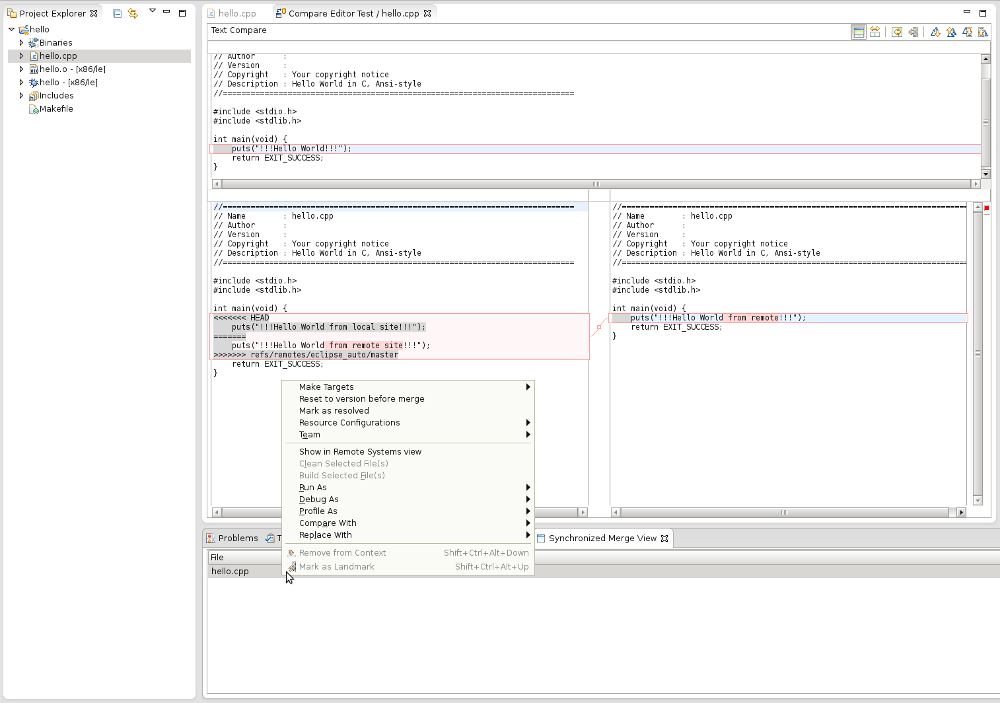
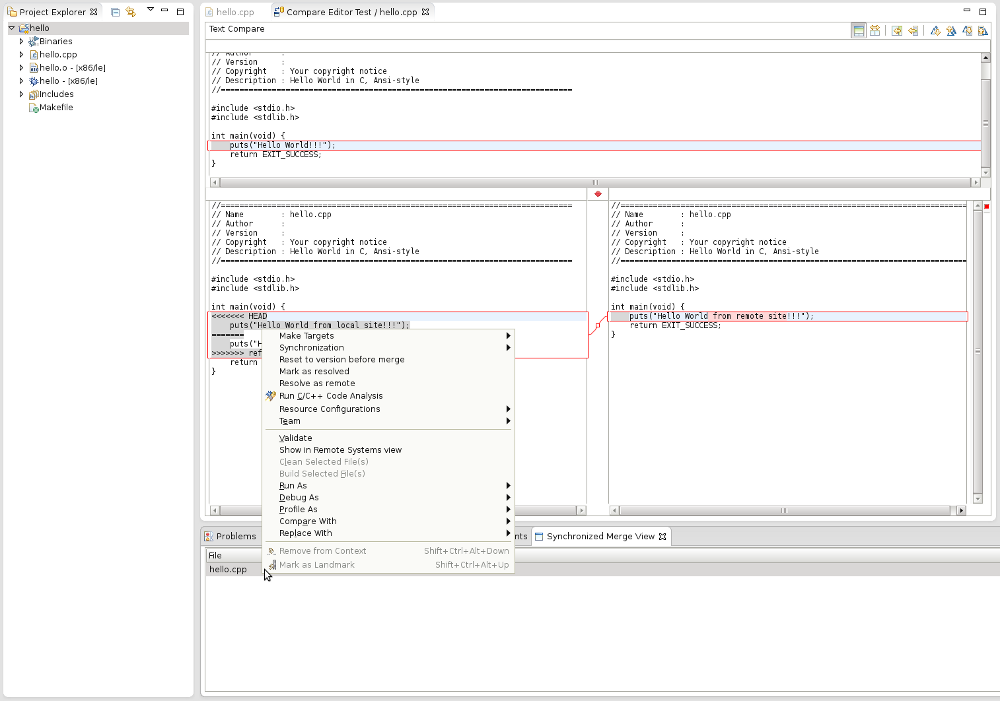
Fix bug 383233 - Give option to select the remote version to resolve a merge conflict

Changed region(s): [[0.0, 0.0, 0.992, 0.9886], [0.434, 0.689, 1.0, 0.8388], [0.558, 0.5093, 0.589, 0.5392]]

diff --git a/core/org.eclipse.ptp.doc.user/html/sync.html b/core/org.eclipse.ptp.doc.user/html/sync.html
@@ -136,7 +136,7 @@ You can open the merge conflict view from this dialog or from <b>Window > Show V
 
 In the compare editor, editing the left pane edits the local version of the file. The compare editor is only for convenience. You can also edit the file from the normal Eclipse text editor. When finished editing, be sure to save the file and then select "Mark as resolved" from the context menu. This version will be copied to the remote site on the next sync. Do the same for each conflicted file. Sync'ing is blocked until all conflicts have been resolved. Instead, the merge-conflict dialog will appear. (Click the checkbox in the merge-conflict dialog to disable it until the merge is resolved.) It is a good idea to sync manually after resolving the merge to push the edits to the remote system.
 <p>
-After a merge conflict, the local file has markers and annotation added to show the differing content on the local and remote sites. This is useful for editing the file by itself, but not so much for using the compare editor. Select "Reset to version before merge" in the context menu to revert the local file to its prior version. Now the compare editor will show clearly the differences between local and remote.
+After a merge conflict, the local file has markers and annotation added to show the differing content on the local and remote sites. This is useful for editing the file by itself, but not so much for using the compare editor. Select "Reset to version before merge" in the context menu to revert the local file to its prior version. Now the compare editor will show clearly the differences between local and remote. Sometimes you may simply want the remote version of the file. Selecting "Resolve as remote" makes the local file identical to the remote version and then marks it as resolved.
 
 <h2 id="includes">Remote Include Paths</h2>
 <p>At the time of the PTP 5.0 release (June 2011),

diff --git a/rdt/org.eclipse.ptp.rdt.sync.ui/src/org/eclipse/ptp/rdt/sync/ui/SyncMenuOperation.java b/rdt/org.eclipse.ptp.rdt.sync.ui/src/org/eclipse/ptp/rdt/sync/ui/SyncMenuOperation.java
@@ -51,6 +51,7 @@ public class SyncMenuOperation extends AbstractHandler implements IElementUpdate
 	private static final String syncExcludeCommand = "sync_exclude"; //$NON-NLS-1$
 	private static final String syncIncludeCommand = "sync_include"; //$NON-NLS-1$
 	private static final String checkoutCommand = "checkout"; //$NON-NLS-1$
+	private static final String resolveAsRemoteCommand = "checkout_remote_copy"; //$NON-NLS-1$
 	private static final String resolveMergeCommand = "resolve"; //$NON-NLS-1$
 	private static final ISyncExceptionHandler syncExceptionHandler = new CommonSyncExceptionHandler(false, true);
 
@@ -115,7 +116,8 @@ public class SyncMenuOperation extends AbstractHandler implements IElementUpdate
 				SyncFileFilterPage.open(project, null);
 			} else if (command.equals(syncDefaultFileList)) {
 				SyncFileFilterPage.open(null, null);
-			} else if (command.equals(checkoutCommand) || command.equals(resolveMergeCommand)) {
+			} else if (command.equals(checkoutCommand) || command.equals(resolveMergeCommand) ||
+					(command.equals(resolveAsRemoteCommand))) {
 				BuildConfigurationManager bcm = BuildConfigurationManager.getInstance();
 				BuildScenario buildScenario = bcm.getBuildScenarioForProject(project);
 				IStructuredSelection sel = this.getSelectedElements();
@@ -134,7 +136,11 @@ public class SyncMenuOperation extends AbstractHandler implements IElementUpdate
 					IPath path = selection.getProjectRelativePath();
 					if (command.equals(checkoutCommand)) {
 						bcm.checkout(project, buildScenario, path);
-					} else if (command.equals(resolveMergeCommand)) {
+					}
+					if (command.equals(resolveAsRemoteCommand)) {
+						bcm.checkoutRemoteCopy(project, buildScenario, path);
+					}
+					if (command.equals(resolveMergeCommand) || command.equals(resolveAsRemoteCommand)) {
 						bcm.setMergeAsResolved(project, buildScenario, path);
 						SyncMergeFileTableViewer viewer = SyncMergeFileTableViewer.getActiveInstance();
 						if (viewer != null) {

diff --git a/rdt/org.eclipse.ptp.rdt.sync.git.core/src/org/eclipse/ptp/rdt/sync/git/core/GitServiceProvider.java b/rdt/org.eclipse.ptp.rdt.sync.git.core/src/org/eclipse/ptp/rdt/sync/git/core/GitServiceProvider.java
@@ -536,12 +536,29 @@ public class GitServiceProvider extends ServiceProvider implements ISyncServiceP
 		}
 	}
 
+	/*
+	 * (non-Javadoc)
+	 * @see org.eclipse.ptp.rdt.sync.core.serviceproviders.ISyncServiceProvider#checkout(org.eclipse.core.resources.IProject, org.eclipse.ptp.rdt.sync.core.BuildScenario, org.eclipse.core.runtime.IPath)
+	 */
 	@Override
 	public void checkout(IProject project, BuildScenario buildScenario, IPath path) throws RemoteSyncException {
 		GitRemoteSyncConnection fSyncConnection = this.getSyncConnection(project, buildScenario,
 				SyncManager.getFileFilter(project), null);
 		if (fSyncConnection != null) {
 			fSyncConnection.checkout(path);
+		}
+	}
+	
+	/*
+	 * (non-Javadoc)
+	 * @see org.eclipse.ptp.rdt.sync.core.serviceproviders.ISyncServiceProvider#checkoutRemote(org.eclipse.core.resources.IProject, org.eclipse.ptp.rdt.sync.core.BuildScenario, org.eclipse.core.runtime.IPath)
+	 */
+	@Override
+	public void checkoutRemoteCopy(IProject project, BuildScenario buildScenario, IPath path) throws RemoteSyncException {
+		GitRemoteSyncConnection fSyncConnection = this.getSyncConnection(project, buildScenario,
+				SyncManager.getFileFilter(project), null);
+		if (fSyncConnection != null) {
+			fSyncConnection.checkoutRemoteCopy(path);
 		}
 	}
 }

diff --git a/rdt/org.eclipse.ptp.rdt.sync.core/src/org/eclipse/ptp/rdt/sync/core/serviceproviders/ISyncServiceProvider.java b/rdt/org.eclipse.ptp.rdt.sync.core/src/org/eclipse/ptp/rdt/sync/core/serviceproviders/ISyncServiceProvider.java
@@ -108,6 +108,17 @@ public interface ISyncServiceProvider extends IRemoteExecutionServiceProvider {
 	 */
 	public void checkout(IProject project, BuildScenario buildScenario, IPath path)  throws CoreException;
 
+	/**
+	 * Replace the current contents of the given path with the current local copy of the remote (not necessarily the same as what
+	 * is on the remote site). This is useful in merge-conflict resolution.
+	 *
+	 * @param project
+	 * @param buildScenario
+	 * @param path
+	 * @throws CoreException
+	 */
+	public void checkoutRemoteCopy(IProject project, BuildScenario buildScenario, IPath path)  throws CoreException;
+
     /**
      * Close any resources (files, sockets) that were open by the sync provider for the given project. Resources not open by the
      * provider should not be touched. This is called, for example, when a project is about to be deleted.

diff --git a/rdt/org.eclipse.ptp.rdt.sync.git.core/src/org/eclipse/ptp/rdt/sync/git/core/GitRemoteSyncConnection.java b/rdt/org.eclipse.ptp.rdt.sync.git.core/src/org/eclipse/ptp/rdt/sync/git/core/GitRemoteSyncConnection.java
@@ -1027,6 +1027,19 @@ public class GitRemoteSyncConnection {
 		this.doRefresh(null);
 	}
 	
+	public void checkoutRemoteCopy(IPath path) throws RemoteSyncException {
+		CheckoutCommand checkoutCommand = git.checkout();
+		checkoutCommand.addPath(path.toString());
+		checkoutCommand.setStartPoint("refs/remotes/" + remoteProjectName + "/master"); //$NON-NLS-1$ //$NON-NLS-2$
+		try {
+			checkoutCommand.call();
+		} catch (GitAPIException e) {
+			throw new RemoteSyncException(e);
+		}
+
+		this.doRefresh(null);
+	}
+
 	// Refresh the workspace after creating new local files
 	// Bug 374409 - run refresh in a separate thread to avoid possible deadlock from locking both the sync lock and the
 	// workspace lock.

diff --git a/rdt/org.eclipse.ptp.rdt.sync.core/src/org/eclipse/ptp/rdt/sync/core/BuildConfigurationManager.java b/rdt/org.eclipse.ptp.rdt.sync.core/src/org/eclipse/ptp/rdt/sync/core/BuildConfigurationManager.java
@@ -949,6 +949,14 @@ public class BuildConfigurationManager {
 		provider.checkout(project, buildScenario, path);
 	}
 	
+	public void checkoutRemoteCopy(IProject project, BuildScenario buildScenario, IPath path) throws CoreException {
+		ISyncServiceProvider provider = this.getProjectSyncServiceProvider(project);
+		if (provider == null) { // Error handled in call
+			return;
+		}
+		provider.checkoutRemoteCopy(project, buildScenario, path);
+	}
+
 	public void modifyConfigurationAsSyncLocal(IConfiguration config) {
 		String configName = config.getName();
 		if (configName.endsWith(localConfigAnnotation)) {
